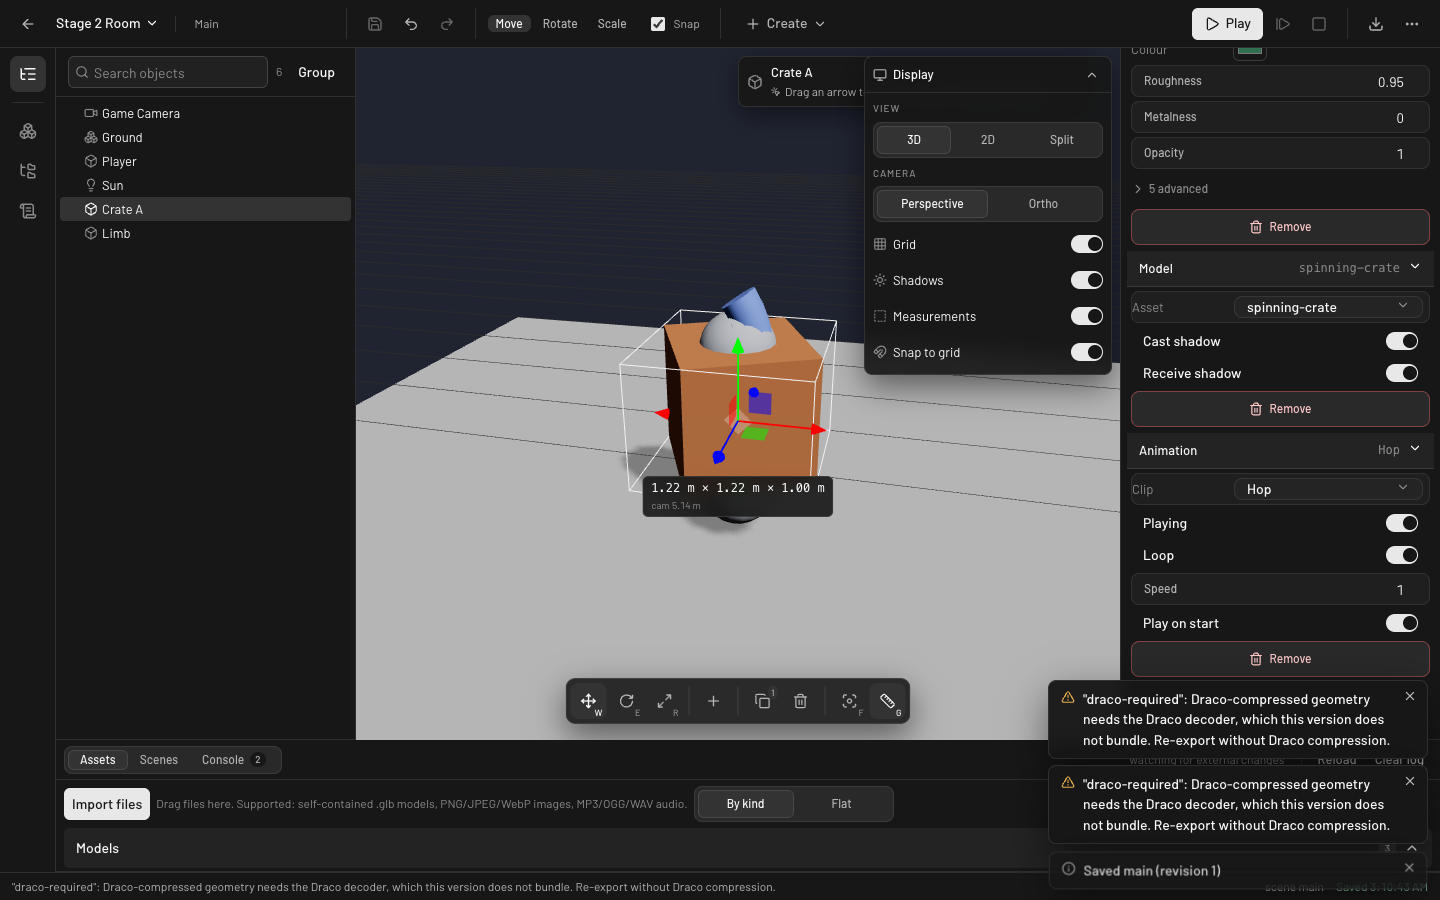
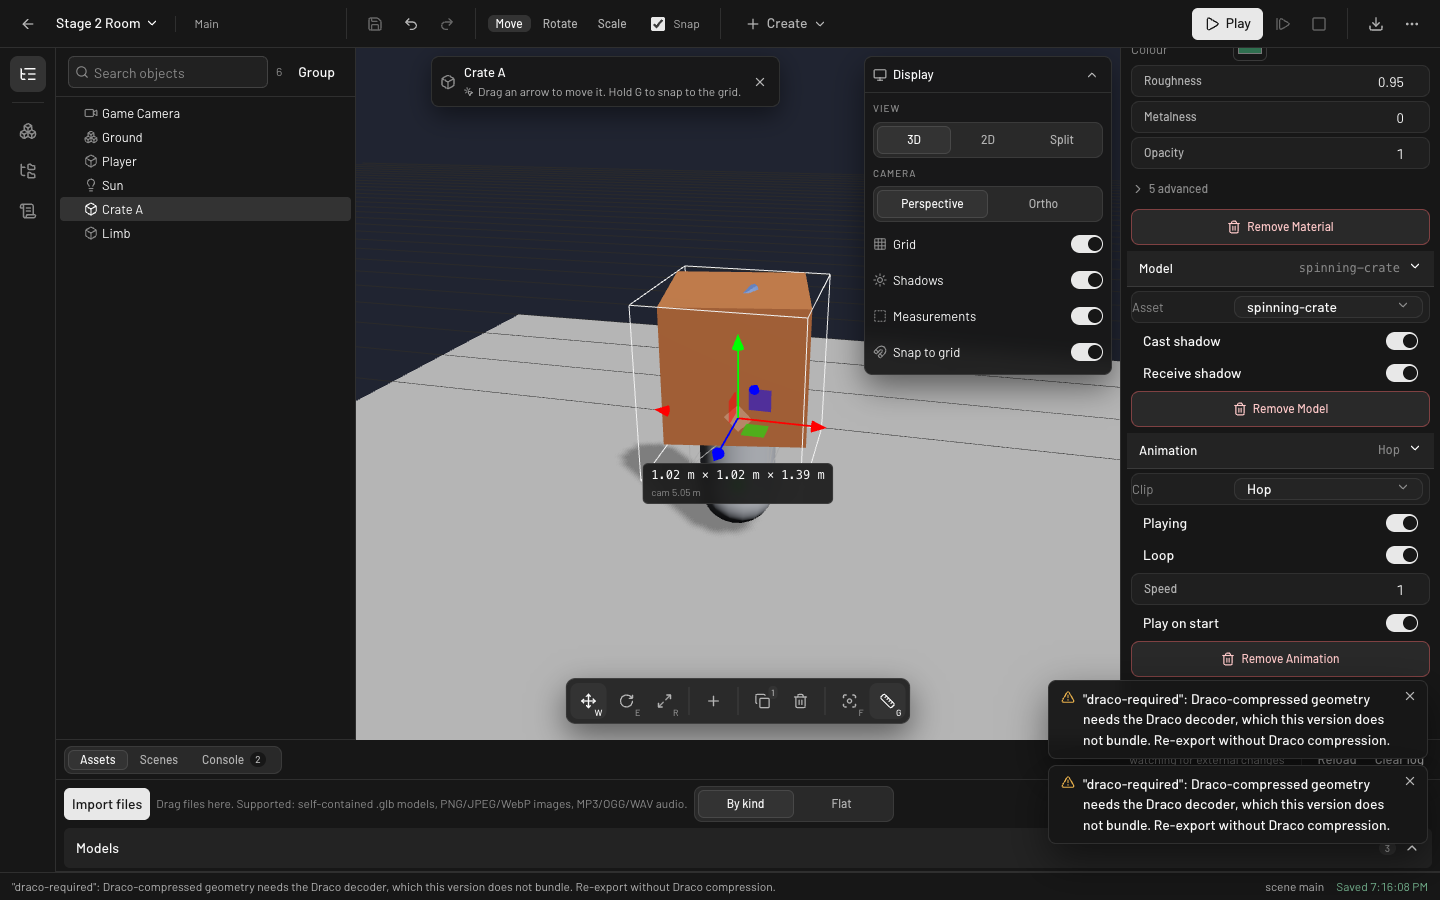
Keep the stage's overlays out of each other's way, and name what Remove removes
Three defects found by driving the running app rather than by reading the gates, and none
of them was visible to a behavioural check.

The hint card was centred on the whole stage while the display panel owns its trailing
248px, so at the default layout the card's 460px reached 223px underneath the panel. Both
are absolutely positioned at the stage's top with the same `zIndex`, so paint order fell to
DOM order and the panel won: the hint was clipped mid-sentence. Raising the card's `zIndex`
would only have moved the problem onto the panel's controls. It now centres in the lane the
panel leaves, and the panel's width and that lane are one token pair because they have to
agree — a panel that changes width without its lane changing is the same bug again.

The display panel stayed mounted through Play, where none of its controls do anything: the
play world is built fresh from a snapshot on its own canvas. It covered the game and the
runtime HUD's own readout. It now takes the same `visible` prop as the hint card and the
tool dock beside it, and re-reads the live settings when the simulation stops, so hiding it
loses nothing.

Four identical full-width danger buttons in one inspector all read "Remove" — one per
component, with nothing on screen saying which removed what, while the section title that
was the only context is a collapsing header. Each now names its target: Remove Shape,
Remove Material, Remove Rigid body, Remove Collider.
[…]

diff --git a/tools/verify-stage2.ts b/tools/verify-stage2.ts
@@ -488,8 +488,56 @@ async function main(): Promise<void> {
     });
     await page.screenshot({ path: join(evidenceDir, 'play-with-models.png') });
 
+    /**
+     * The display panel is a set of view controls — projection, grid, shadows, snapping — and none
+     * of them reach the play world, which is built fresh from a snapshot on its own canvas. It used
+     * to stay mounted through Play anyway, covering the game and the runtime HUD's own readout while
+     * offering switches that did nothing.
+     */
+    const panelsInPlay = await page.locator('.display-panel').count();
+    record({
+      id: 'display-panel-hidden-in-play',
+      title: 'The display panel is not mounted while a simulation runs',
+      passed: panelsInPlay === 0,
+      detail:
+        panelsInPlay === 0
+          ? 'the panel leaves the stage in Play, so it covers neither the game nor the runtime HUD'
+          : `${panelsInPlay} display panel(s) still mounted over the play canvas`,
+      observed: { panelsInPlay },
+    });
+
     await page.click('button[aria-label="Stop and discard the simulation"]');
     await page.waitForSelector('.viewport-badge', { state: 'detached', timeout: 15_000 });
+
+    /**
+     * Geometric, not textual: the two overlays share the top of the stage and the same `zIndex`, so
+     * paint order falls to DOM order and the assertion is simply that their boxes do not intersect.
+     * The hint card was centred on the whole stage, which put its right edge 223px underneath the
+     * panel's lane, and the panel painted over it — clipping the hint mid-sentence. Re-centring the
+     * card on the stage again is the regression this catches.
+     */
+    await page.waitForSelector('.display-panel', { timeout: 15_000 });
+    const hintCard = await page.locator('.hint-card').boundingBox();
+    const displayPanel = await page.locator('.display-panel').boundingBox();
+    const stageWidth = await page
+      .locator('.display-panel')
+      .evaluate((element) => Math.round(element.parentElement?.getBoundingClientRect().width ?? 0));
+    const overlap =
+      hintCard && displayPanel
+        ? Math.min(hintCard.x + hintCard.width, displayPanel.x + displayPanel.width) - Math.max(hintCard.x, displayPanel.x)
+        : null;
+    record({
+      id: 'overlays-do-not-overlap',
+      title: 'The hint card and the display panel do not overlap on the stage',
+      passed: overlap !== null && overlap <= 0,
+      detail:
+        overlap === null
+          ? `could not measure both overlays: hint card ${hintCard ? 'found' : 'missing'}, display panel ${displayPanel ? 'found' : 'missing'}`
+          : `on a ${stageWidth}px stage, hint card ends at ${Math.round((hintCard?.x ?? 0) + (hintCard?.width ?? 0))} and the panel starts at ${Math.round(displayPanel?.x ?? 0)}: ${
+              overlap <= 0 ? `${Math.round(-overlap)}px clear` : `${Math.round(overlap)}px of the hint is covered`
+            }`,
+      observed: { hintCard, displayPanel, overlap, stageWidth },
+    });
 
     // --- missing asset error is understandable -------------------------------------
     // Delete the file behind a manifest entry, then load the scene again: the entity must

diff --git a/src/editor/ui/DisplayPanel.tsx b/src/editor/ui/DisplayPanel.tsx
@@ -2,11 +2,12 @@ import { useCallback, useEffect, useState } from 'react';
 import type { JSX } from 'react';
 import * as stylex from '@stylexjs/stylex';
 import { ChevronDown, Grid3x3, Magnet, Monitor, Sun, SquareDashed } from 'lucide-react';
-import { color, control, fontSize, radius, space } from '../styles/tokens.stylex.js';
+import { color, control, fontSize, overlay, radius, space } from '../styles/tokens.stylex.js';
 import type { SnapSettings } from '../viewport/viewport-controller.js';
 import type { ViewportDisplay, ViewportHandle } from '../panels/Viewport.js';
 import { SegmentedControl, type SegmentedOption } from './Controls.js';
 import { Switch } from './Field.js';
+import { DOM, withDomClass } from '../dom-contract.js';
 import { SegmentedControl as _SegmentedControl } from './Controls.js';
 import { IconButton } from './Button.js';
 
@@ -32,7 +33,7 @@ const styles = stylex.create({
     position: 'absolute',
     insetBlockStart: space.md,
     insetInlineEnd: space.md,
-    width: '248px',
+    width: overlay.panel,
     display: 'flex',
     flexDirection: 'column',
     borderRadius: radius.lg,
@@ -131,6 +132,17 @@ export interface DisplayPanelProps {
   onMeasurementsChange(visible: boolean): void;
   /** Shown collapsed to its header when false, so the stage is not permanently covered. */
   defaultOpen?: boolean;
+  /**
+   * Hidden while a simulation runs, like the hint card and the tool dock beside it.
+   *
+   * Everything here changes how the *authored* scene is being looked at — the view mode, the grid,
+   * shadows, snapping. None of it reaches the play world, which is built fresh from a snapshot on
+   * its own canvas, so during Play the panel was a set of switches that visibly did nothing while
+   * covering the game and the play-mode banner. The settings it shows are read back from the
+   * viewport on mount, so hiding the panel loses nothing: it re-reads the live values when the
+   * simulation stops.
+   */
+  visible: boolean;
 }
 
 export function DisplayPanel({
@@ -140,7 +152,8 @@ export function DisplayPanel({
   measurements,
   onMeasurementsChange,
   defaultOpen = true,
-}: DisplayPanelProps): JSX.Element {
+  visible,
+}: DisplayPanelProps): JSX.Element | null {
   const [open, setOpen] = useState(defaultOpen);
   const [display, setDisplay] = useState<ViewportDisplay>({
     projection: 'perspective',
@@ -171,8 +184,11 @@ export function DisplayPanel({
     sync();
   };
 
+  // After the hooks, so the panel keeps syncing while it is hidden and comes back showing the truth.
+  if (!visible) return null;
+
   return (
-    <div {...stylex.props(styles.panel)}>
+    <div {...withDomClass(styles.panel, DOM.displayPanel)}>
       <div {...stylex.props(styles.header)}>
         <Monitor size={control.iconSm} />
         <span {...stylex.props(styles.title)}>Display</span>

diff --git a/src/editor/ui/HintCard.tsx b/src/editor/ui/HintCard.tsx
@@ -2,8 +2,9 @@ import { useState } from 'react';
 import type { JSX } from 'react';
 import * as stylex from '@stylexjs/stylex';
 import { Box, MousePointerClick, X } from 'lucide-react';
-import { color, control, fontSize, radius, space } from '../styles/tokens.stylex.js';
+import { color, control, fontSize, overlay, radius, space } from '../styles/tokens.stylex.js';
 import { useSession, useSessionSnapshot } from '../hooks.js';
+import { DOM, withDomClass } from '../dom-contract.js';
 import { IconButton } from './Button.js';
 import type { TransformTool } from '../viewport/viewport-controller.js';
 
@@ -29,12 +30,26 @@ const styles = stylex.create({
   card: {
     position: 'absolute',
     insetBlockStart: space.md,
-    insetInlineStart: '50%',
-    transform: 'translateX(-50%)',
+    /**
+     * Centred in the stage *minus the display panel's lane*, not in the stage.
+     *
+     * The card used to be centred on the stage with `insetInlineStart: 50%`, which put its right
+     * edge 223px underneath the panel at the default layout — the panel is later in the DOM and
+     * shares the card's `zIndex`, so it painted over the hint and clipped it mid-sentence. Raising
+     * the card's `zIndex` would only have moved the problem: it would have covered the panel's
+     * controls instead. Reserving the lane is what actually separates them.
+     *
+     * `fit-content` keeps the card hugging its text rather than stretching into a full-width bar
+     * now that it has a box to fill, and the auto margins are what centre it in that box.
+     */
+    insetInlineStart: space.md,
+    insetInlineEnd: overlay.lane,
+    marginInline: 'auto',
+    width: 'fit-content',
     display: 'flex',
     alignItems: 'center',
     gap: space.md,
-    maxWidth: '460px',
+    maxWidth: overlay.card,
     paddingBlock: space.sm,
     paddingInline: space.md,
     borderRadius: radius.lg,
@@ -120,7 +135,7 @@ export function HintCard({ tool, visible }: HintCardProps): JSX.Element | null {
   if (!visible || dismissed || !entity) return null;
 
   return (
-    <div {...stylex.props(styles.card)} role="status">
+    <div {...withDomClass(styles.card, DOM.hintCard)} role="status">
       <span {...stylex.props(styles.glyph)}>
         <Box size={control.icon} />
       </span>

diff --git a/src/editor/panels/Inspector.tsx b/src/editor/panels/Inspector.tsx
@@ -680,7 +680,7 @@ function BehaviorSection({ entity, component, locked }: { entity: Entity; compon
       )}
       <ActionGroup>
         <ActionButton
-          label="Remove"
+          label={`Remove ${descriptor?.name ?? component.behaviorId}`}
           icon={<Trash2 size={control.iconSm} />}
           disabled={locked}
           onClick={() =>
@@ -764,13 +764,16 @@ function ComponentSection({
         </div>
       )}
       {/**
-       * The section's destructive action sits in a filled cluster rather than as a bare ghost link.
-       * Their `ActionButton` shape is what makes it read as the row's one button instead of a label
-       * that happens to be clickable.
+       * The label names the component it removes.
+       *
+       * Each of these read just "Remove", so an entity with four components rendered four identical
+       * full-width danger buttons stacked down the panel with nothing on screen saying which removed
+       * what. The section title above is the only context, and it is a collapsing header, so it is
+       * not reliably there to read.
        */}
       <ActionGroup>
         <ActionButton
-          label="Remove"
+          label={`Remove ${componentLabel(component)}`}
           icon={<Trash2 size={control.iconSm} />}
           danger
           disabled={locked}

diff --git a/src/editor/styles/tokens.stylex.ts b/src/editor/styles/tokens.stylex.ts
@@ -186,6 +186,24 @@ export const controlSize = stylex.defineVars({
 });
 
 /**
+ * The geometry the floating overlays on the stage share.
+ *
+ * `panel` is the display panel's width and `lane` is what it occupies once its gutter is counted,
+ * measured from the stage's trailing edge. The hint card centres itself in what is left rather than
+ * in the stage as a whole. Both were anchored to the stage's top with the same `zIndex`, so the
+ * card's centred 460px reached 223px under the panel and the panel — later in the DOM — painted
+ * over it, clipping the hint mid-sentence.
+ *
+ * The two are one token pair rather than two literals because they have to agree: a panel that
+ * changes width without its lane changing is the same bug again.
+ */
+export const overlay = stylex.defineVars({
+  panel: '248px',
+  lane: '272px',
+  card: '460px',
+});
+
+/**
  * Shared button treatments.
  *
  * Their `buttonVariants`, reduced to the four variants this editor actually uses. `primary` is the

diff --git a/src/editor/dom-contract.ts b/src/editor/dom-contract.ts
@@ -74,6 +74,13 @@ export const DOM = {
   vectorField: 'vector-field',
   /** Stage 2: the create-entity menu in the toolbar. */
   menu: 'menu',
+  /**
+   * Stage 2: the two floating overlays on the stage are measured against each other. They share the
+   * top of the stage and the same `zIndex`, so the check is geometric — their boxes must not
+   * intersect — and both boxes have to be locatable for that to be assertable.
+   */
+  hintCard: 'hint-card',
+  displayPanel: 'display-panel',
   /** Stage 5: the play-mode badge proves the viewport switched modes. */
   viewportBadge: 'viewport-badge',
   /** Stage 1-5: the hierarchy row is clicked to select an object. */

diff --git a/src/editor/App.tsx b/src/editor/App.tsx
@@ -422,6 +422,7 @@ function StudioShell(): JSX.Element {
                 onSnapChange={setSnap}
                 measurements={measurements}
                 onMeasurementsChange={setMeasurements}
+                visible={!editorLocked}
               />
               <MeasurementOverlay viewport={viewportRef} visible={!editorLocked && measurements} />
               <ToolDock

diff --git a/docs/status.md b/docs/status.md
@@ -8,7 +8,7 @@ gaps that are knowingly left open.
 |---|---|---|
 | 0. Compatibility probe | complete | `pnpm verify:stage0` — 14/14 checks |
 | 1. End-to-end authoring loop | complete | `pnpm verify:stage1` — 12/12 checks |
-| 2. Comfortable scene editing | complete | `pnpm verify:stage2` — 15/15 checks |
+| 2. Comfortable scene editing | complete | `pnpm verify:stage2` — 17/17 checks |
 | 3. Actual games | complete | `pnpm verify:stage3` — 14/14 checks |
 | 4. Agent and management workflow | complete | `pnpm verify:stage4` — 17/17 checks |
 | 5. Reliability and release | complete | `pnpm verify:stage5` — 23/23 checks |
@@ -178,7 +178,7 @@ playback, pause/step, errors.
 **Evidence required:** "Build and revise a small scene without editing code; missing asset and
 unsupported import errors are understandable."
 
-**Status:** demonstrated, 15/15 automated checks passing.
+**Status:** demonstrated, 17/17 automated checks passing.
 
 ### How to run
 

diff --git a/README.md b/README.md
@@ -26,7 +26,7 @@ rules.
 
 - `pnpm verify:stage0` — 14/14 checks (runtime, physics, teardown, WASM delivery)
 - `pnpm verify:stage1` — 12/12 checks (authoring loop end to end, pause and step)
-- `pnpm verify:stage2` — 15/15 checks (assets, clips, property controls, keyboard focus, drag cancellation)
+- `pnpm verify:stage2` — 17/17 checks (assets, clips, property controls, keyboard focus, drag cancellation)
 - `pnpm verify:stage3` — 14/14 checks (both demo games played end to end, wall contact, tuning editable)
 - `pnpm verify:stage4` — 17/17 checks (agent-built game, human edit, independence, management)
 - `pnpm verify:stage5` — 23/23 checks (compatibility, resource ownership, reference-scene
